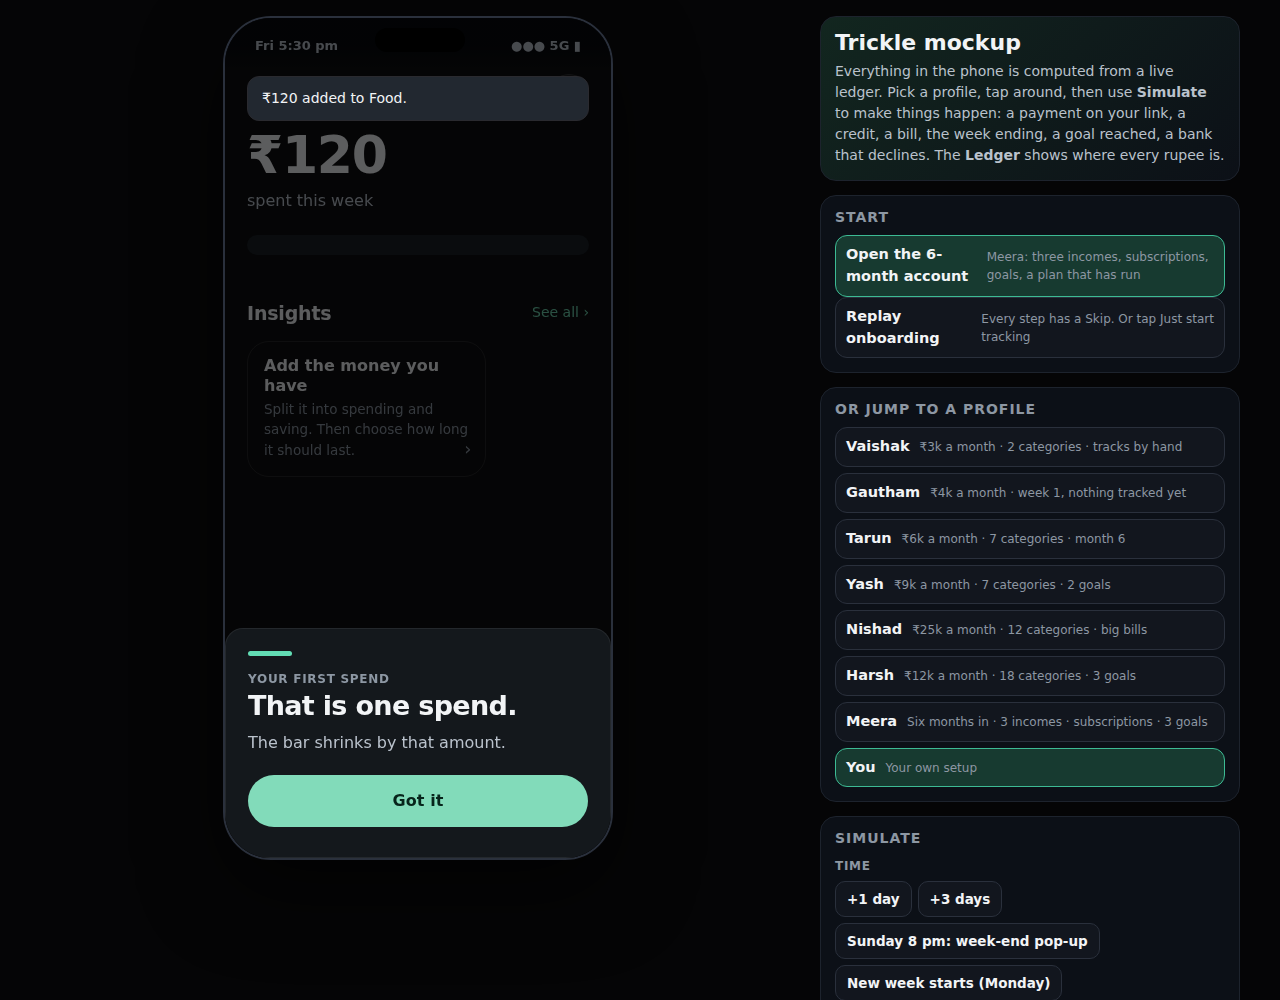
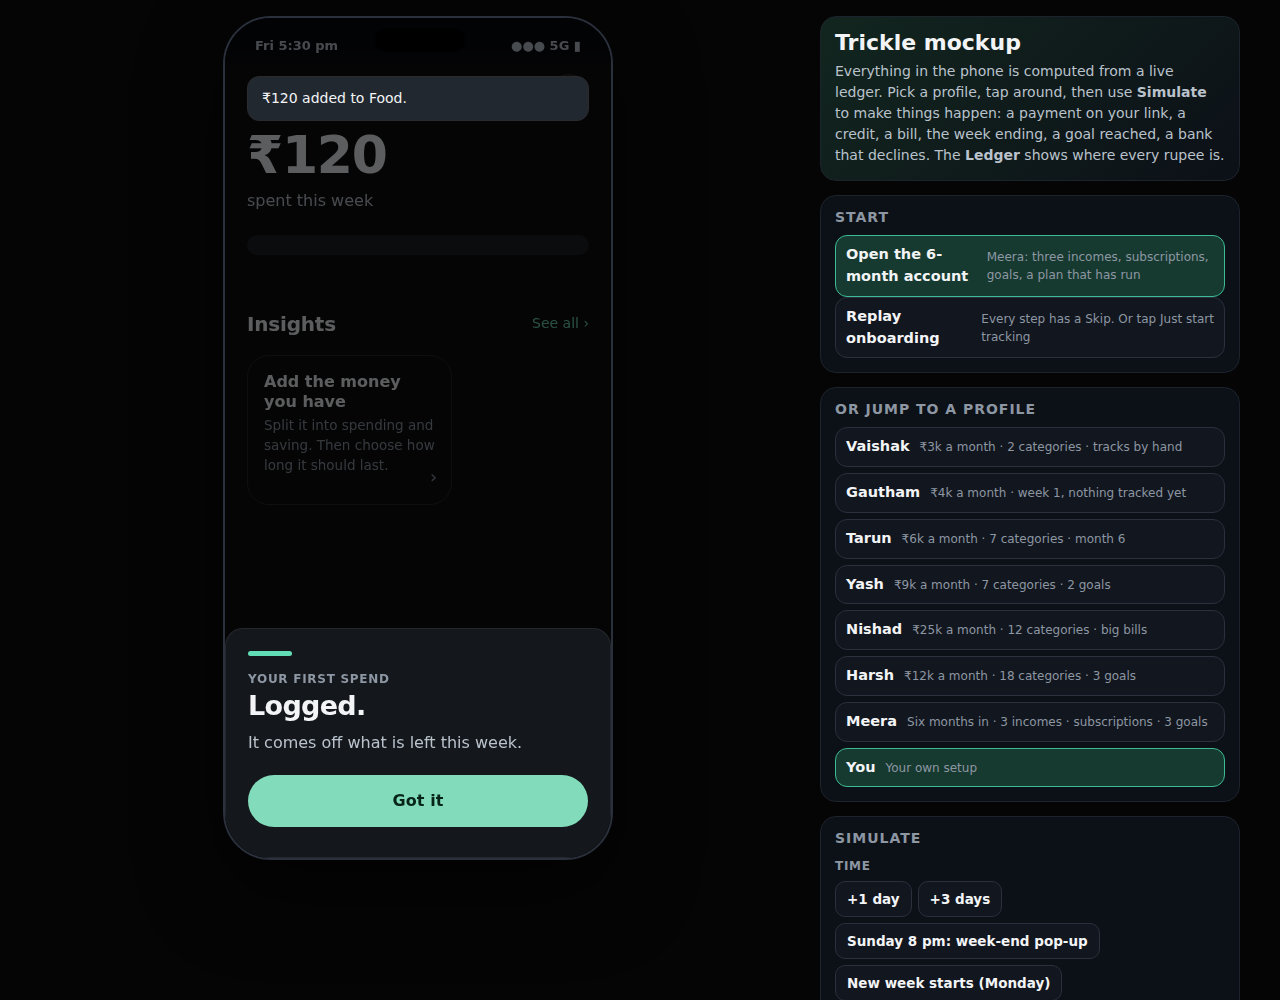
v20.1: weeks stepper or calendar, numbered plan blocks with one result, more spacing, plain tips
Claude-Session: https://claude.ai/code/session_018X24G78A47pCQxY7X53pHo

Changed region(s): [[0.1875, 0.31, 0.3438, 0.465], [0.1875, 0.682, 0.4062, 0.744], [0.4062, 0.31, 0.4688, 0.341]]

diff --git a/archive/session-workfiles/mockup20/mockup20.html b/archive/session-workfiles/mockup20/mockup20.html
@@ -394,6 +394,21 @@ input[type=range].split18::-moz-range-thumb{width:22px;height:28px;border:0;bord
 /* information: open tile, outline only, picture first */
 .in20{position:relative;flex:0 0 70%;scroll-snap-align:start;background:none;border:1.5px solid rgba(255,255,255,.1);border-radius:22px;padding:14px 16px 16px;color:var(--ink);font:inherit;text-align:left;display:flex;flex-direction:column;gap:3px;cursor:pointer}
 .in20 .mn{display:block;margin-bottom:10px}.in20 b{font-size:16px;font-weight:700;line-height:1.25;padding-right:14px}.in20 .sb{font-size:13.5px;color:var(--ink3)}.in20 .cv{position:absolute;right:14px;bottom:14px;font-style:normal;color:var(--ink3);font-size:18px}
+/* v20.1: blocks, spacing, hierarchy */
+.blk20{margin-top:16px;background:#1C1E22;border:1px solid rgba(255,255,255,.06);border-radius:22px;padding:16px 16px 18px}
+.blk20 .lab20{display:flex;align-items:center;gap:10px;margin-bottom:12px;font-size:16px}
+.n20{width:24px;height:24px;border-radius:50%;background:rgba(255,255,255,.1);color:var(--ink);font-size:13px;font-weight:700;display:flex;align-items:center;justify-content:center;flex:none}
+.blk20 input[type=range].split18{margin:12px 0 14px}
+.stp20{display:flex;align-items:center;gap:12px;margin:4px 0 14px}.stp20>div{flex:1;text-align:center}.stp20 b{display:block;font-size:26px;font-weight:700;letter-spacing:-.02em}.stp20 small{font-size:13px;color:var(--ink3)}
+.stp20 button{width:48px;height:48px;border-radius:50%;border:1px solid rgba(255,255,255,.14);background:#2A2D33;color:var(--ink);font:inherit;font-size:26px;line-height:1;cursor:pointer;display:flex;align-items:center;justify-content:center}.stp20 button:disabled{opacity:.35;cursor:default}
+.wk20 i.now{background:var(--spend)}
+.res20{margin-top:16px;border-radius:22px;padding:18px;background:color-mix(in srgb,var(--spend) 14%,#1C1E22);border:1px solid color-mix(in srgb,var(--spend) 38%,transparent)}
+/* Home: more room and clearer roles */
+.sec20{margin:40px 0 14px}.sec20>span{font-size:20px}
+#phone .hero17.h20{padding:20px 20px 20px}
+.in20{flex:0 0 60%;min-height:150px;padding:16px}
+.sg20{flex:0 0 86%;padding:18px}.sg20 .ic20{width:40px;height:40px}.sg20 .ic20 i{width:14px;height:14px}.sg20 b{font-size:20px}
+.dots17{margin-top:12px}
 </style></head><body>
 <div class="app"><div class="stage"><div id="frame"><div id="phone"><div class="notch"></div><div class="status"><span id="clk"></span><span>●●● 5G ▮</span></div><div id="glow"></div><div id="view"></div><div id="tabbar"></div><div id="layer"></div></div></div></div>
 <aside class="panel" id="panel"></aside></div>
@@ -3042,6 +3057,34 @@ scanConfirm=function(F){const d=F.d,amt=amtOf(d.kp),pl=planned(),W=Math.max(1,fl
   ${warn?`<div class="note20" style="text-align:left"><i style="background:${ST20.fast.c}"></i>${esc(warn)}</div>`:''}</div>
   <div class="mfoot"><div class="col" style="gap:8px"><button class="btn" data-a="pclose">Done</button>${d.scan?`<button class="btn q" data-a="scanremove">Didn't pay? Remove</button>`:''}</div></div>`}
  return _p(F)}}
+
+/* ===== v20.1 (10 Oct, Tarun): how long = weeks you add with + (or a calendar), not a dropdown. Plan screen in numbered blocks with one result ===== */
+const sun20=()=>wk0()+6*DAY;
+const wkCount20=end=>Math.max(1,Math.round((snapEnd(end)-sun20())/(7*DAY))+1);
+function setWeeks20(d,k){k=Math.max(1,Math.min(52,k));d.end=sun20()+(k-1)*7*DAY;d.dur='w';d.cal=false;const e=new Date(d.end),n=new Date(day0());d.cm=(e.getFullYear()-n.getFullYear())*12+e.getMonth()-n.getMonth()}
+H.incwk=a=>{const d=UI.flow.d,k=wkCount20(planNums18(d).end);setWeeks20(d,k+(+a[0]))};
+H.inccal20=()=>{const d=UI.flow.d;d.cal=!d.cal};
+function res20(n){return `<div class="sm">${money(n.sp)} ÷ ${n.days} days</div><div class="row" style="align-items:baseline;gap:8px;margin-top:4px"><span class="hero" style="font-size:46px;line-height:1">${money(n.wk)}</span><span style="font-size:17px;color:var(--ink2)">every week</span></div>${n.left<7?`<div class="sm" style="margin-top:6px">This week ${money(n.share)}, for the ${n.left} day${n.left>1?'s':''} left</div>`:''}`}
+function strip20(n){const w=weeks20(n);return `<div class="wk20">${w.map((b,i)=>`<i style="flex:${b.d}" class="${i===0?'now':''}"></i>`).join('')}</div><div class="row sp sm" style="margin-top:7px"><span>Today</span><span>Sun ${shortD(n.end)}</span></div>`}
+{const _inc=FLOWS.inc;FLOWS.inc=F=>{if(F.step===0)return _inc(F);
+ const d=F.d;if(!d.end)setWeeks20(d,5);const n=planNums18(d),k=wkCount20(n.end);
+ return `<div class="mbody"><button class="back" data-a="incback">‹ Back</button><div class="steps"><i class="on"></i><i class="on"></i></div>
+ <div class="title" style="margin-top:14px">Plan your ${money(n.a)}</div>
+ <div class="blk20"><div class="lab20"><span class="n20">1</span>Keep some aside?</div>
+  <input type="range" class="split18" min="0" max="100" step="1" value="${n.pct}" data-i="incpct20" style="--p:${n.pct}%" aria-label="How much to keep aside">
+  <div class="row sp"><button class="tapamt18" data-a="incedit|sav"><span class="k20"><i style="background:${SAVE}"></i>Keep aside</span><b id="inc-sav">${money(n.sav)}</b></button><button class="tapamt18 r" data-a="incedit|sp"><span class="k20"><i style="background:${SPEND}"></i>To spend</span><b id="inc-sp">${money(n.sp)}</b></button></div></div>
+ <div class="blk20"><div class="lab20"><span class="n20">2</span><span id="inc-q">How long should ${money(n.sp)} last?</span></div>
+  ${d.cal?`<div class="sm" style="margin-bottom:8px">Until Sunday ${fmtDate(n.end)}</div>${calHtml(d,n.t0,n.end)}`:`<div class="stp20"><button data-a="incwk|-1" aria-label="One week less" ${k<=1?'disabled':''}>−</button><div><b>${k} week${k>1?'s':''}</b><small>until Sun ${shortD(n.end)}</small></div><button data-a="incwk|1" aria-label="One more week">+</button></div>${strip20(n)}`}
+  <button class="lnk" style="margin-top:12px;font-size:14px" data-a="inccal20">${d.cal?'Count in weeks instead':'Pick a date on a calendar'}</button></div>
+ <div class="res20" id="eq20">${res20(n)}</div><div style="height:150px"></div></div>
+ <div class="mfoot"><div class="col" style="gap:8px"><button class="btn" data-a="incfinish">${planned()?'Update my week':'Start my week'}</button><button class="btn q" data-a="incdone">Just add the money</button></div></div>`}}
+HI.incpct20=(a,el)=>{const d=UI.flow.d;d.pct=+el.value;d.savX=null;const n=planNums18(d);el.style.setProperty('--p',n.pct+'%');$('#inc-sav').textContent=money(n.sav);$('#inc-sp').textContent=money(n.sp);$('#inc-q').textContent=`How long should ${money(n.sp)} last?`;$('#eq20').innerHTML=res20(n);return false};
+{const _n=H.incnext;H.incnext=a=>{_n(a);setWeeks20(UI.flow.d,5)}}
+
+/* plain-word tips (testers: "why are you riddling people") */
+TIPDEF.income={cap:'Money added',t:'Some kept aside. The rest is to spend.',b:()=>`You can spend ${money(S.W)} each week.`,c:ACC.b};
+TIPDEF.plan={cap:'Your week',t:'Your week is set.',b:()=>`${money(S.W)} to spend each week. Every spend comes out of it.`,c:ACC.g};
+TIPDEF.paid={cap:'Your first spend',t:'Logged.',b:'It comes off what is left this week.',c:ACC.g};
 
 /* ===== control panel ===== */
 function loadProfile(k){S=newState(k);S.moneyIn=[{id:'m0',t:new Date(2026,9,1,9,0).getTime(),label:'Allowance',amt:S.p.income,note:''}];if(S.p.six)seedSix();else if(S.p.W>0){S.planSet=true;S.cats.forEach(c=>c.full=c.amt);S.bufFull=S.bufAmt;S.firstDay=new Date(S.now.getTime()-S.p.weeks*7*DAY)}resetUI();window._celeLock=false;render();fitPhone()}

diff --git a/archive/session-workfiles/mockup20/ui20.js b/archive/session-workfiles/mockup20/ui20.js
@@ -93,3 +93,31 @@ scanConfirm=function(F){const d=F.d,amt=amtOf(d.kp),pl=planned(),W=Math.max(1,fl
   ${warn?`<div class="note20" style="text-align:left"><i style="background:${ST20.fast.c}"></i>${esc(warn)}</div>`:''}</div>
   <div class="mfoot"><div class="col" style="gap:8px"><button class="btn" data-a="pclose">Done</button>${d.scan?`<button class="btn q" data-a="scanremove">Didn't pay? Remove</button>`:''}</div></div>`}
  return _p(F)}}
+
+/* ===== v20.1 (10 Oct, Tarun): how long = weeks you add with + (or a calendar), not a dropdown. Plan screen in numbered blocks with one result ===== */
+const sun20=()=>wk0()+6*DAY;
+const wkCount20=end=>Math.max(1,Math.round((snapEnd(end)-sun20())/(7*DAY))+1);
+function setWeeks20(d,k){k=Math.max(1,Math.min(52,k));d.end=sun20()+(k-1)*7*DAY;d.dur='w';d.cal=false;const e=new Date(d.end),n=new Date(day0());d.cm=(e.getFullYear()-n.getFullYear())*12+e.getMonth()-n.getMonth()}
+H.incwk=a=>{const d=UI.flow.d,k=wkCount20(planNums18(d).end);setWeeks20(d,k+(+a[0]))};
+H.inccal20=()=>{const d=UI.flow.d;d.cal=!d.cal};
+function res20(n){return `<div class="sm">${money(n.sp)} ÷ ${n.days} days</div><div class="row" style="align-items:baseline;gap:8px;margin-top:4px"><span class="hero" style="font-size:46px;line-height:1">${money(n.wk)}</span><span style="font-size:17px;color:var(--ink2)">every week</span></div>${n.left<7?`<div class="sm" style="margin-top:6px">This week ${money(n.share)}, for the ${n.left} day${n.left>1?'s':''} left</div>`:''}`}
+function strip20(n){const w=weeks20(n);return `<div class="wk20">${w.map((b,i)=>`<i style="flex:${b.d}" class="${i===0?'now':''}"></i>`).join('')}</div><div class="row sp sm" style="margin-top:7px"><span>Today</span><span>Sun ${shortD(n.end)}</span></div>`}
+{const _inc=FLOWS.inc;FLOWS.inc=F=>{if(F.step===0)return _inc(F);
+ const d=F.d;if(!d.end)setWeeks20(d,5);const n=planNums18(d),k=wkCount20(n.end);
+ return `<div class="mbody"><button class="back" data-a="incback">‹ Back</button><div class="steps"><i class="on"></i><i class="on"></i></div>
+ <div class="title" style="margin-top:14px">Plan your ${money(n.a)}</div>
+ <div class="blk20"><div class="lab20"><span class="n20">1</span>Keep some aside?</div>
+  <input type="range" class="split18" min="0" max="100" step="1" value="${n.pct}" data-i="incpct20" style="--p:${n.pct}%" aria-label="How much to keep aside">
+  <div class="row sp"><button class="tapamt18" data-a="incedit|sav"><span class="k20"><i style="background:${SAVE}"></i>Keep aside</span><b id="inc-sav">${money(n.sav)}</b></button><button class="tapamt18 r" data-a="incedit|sp"><span class="k20"><i style="background:${SPEND}"></i>To spend</span><b id="inc-sp">${money(n.sp)}</b></button></div></div>
+ <div class="blk20"><div class="lab20"><span class="n20">2</span><span id="inc-q">How long should ${money(n.sp)} last?</span></div>
+  ${d.cal?`<div class="sm" style="margin-bottom:8px">Until Sunday ${fmtDate(n.end)}</div>${calHtml(d,n.t0,n.end)}`:`<div class="stp20"><button data-a="incwk|-1" aria-label="One week less" ${k<=1?'disabled':''}>−</button><div><b>${k} week${k>1?'s':''}</b><small>until Sun ${shortD(n.end)}</small></div><button data-a="incwk|1" aria-label="One more week">+</button></div>${strip20(n)}`}
+  <button class="lnk" style="margin-top:12px;font-size:14px" data-a="inccal20">${d.cal?'Count in weeks instead':'Pick a date on a calendar'}</button></div>
+ <div class="res20" id="eq20">${res20(n)}</div><div style="height:150px"></div></div>
+ <div class="mfoot"><div class="col" style="gap:8px"><button class="btn" data-a="incfinish">${planned()?'Update my week':'Start my week'}</button><button class="btn q" data-a="incdone">Just add the money</button></div></div>`}}
+HI.incpct20=(a,el)=>{const d=UI.flow.d;d.pct=+el.value;d.savX=null;const n=planNums18(d);el.style.setProperty('--p',n.pct+'%');$('#inc-sav').textContent=money(n.sav);$('#inc-sp').textContent=money(n.sp);$('#inc-q').textContent=`How long should ${money(n.sp)} last?`;$('#eq20').innerHTML=res20(n);return false};
+{const _n=H.incnext;H.incnext=a=>{_n(a);setWeeks20(UI.flow.d,5)}}
+
+/* plain-word tips (testers: "why are you riddling people") */
+TIPDEF.income={cap:'Money added',t:'Some kept aside. The rest is to spend.',b:()=>`You can spend ${money(S.W)} each week.`,c:ACC.b};
+TIPDEF.plan={cap:'Your week',t:'Your week is set.',b:()=>`${money(S.W)} to spend each week. Every spend comes out of it.`,c:ACC.g};
+TIPDEF.paid={cap:'Your first spend',t:'Logged.',b:'It comes off what is left this week.',c:ACC.g};

diff --git a/archive/session-workfiles/mockup20/shell.html b/archive/session-workfiles/mockup20/shell.html
@@ -394,6 +394,21 @@ input[type=range].split18::-moz-range-thumb{width:22px;height:28px;border:0;bord
 /* information: open tile, outline only, picture first */
 .in20{position:relative;flex:0 0 70%;scroll-snap-align:start;background:none;border:1.5px solid rgba(255,255,255,.1);border-radius:22px;padding:14px 16px 16px;color:var(--ink);font:inherit;text-align:left;display:flex;flex-direction:column;gap:3px;cursor:pointer}
 .in20 .mn{display:block;margin-bottom:10px}.in20 b{font-size:16px;font-weight:700;line-height:1.25;padding-right:14px}.in20 .sb{font-size:13.5px;color:var(--ink3)}.in20 .cv{position:absolute;right:14px;bottom:14px;font-style:normal;color:var(--ink3);font-size:18px}
+/* v20.1: blocks, spacing, hierarchy */
+.blk20{margin-top:16px;background:#1C1E22;border:1px solid rgba(255,255,255,.06);border-radius:22px;padding:16px 16px 18px}
+.blk20 .lab20{display:flex;align-items:center;gap:10px;margin-bottom:12px;font-size:16px}
+.n20{width:24px;height:24px;border-radius:50%;background:rgba(255,255,255,.1);color:var(--ink);font-size:13px;font-weight:700;display:flex;align-items:center;justify-content:center;flex:none}
+.blk20 input[type=range].split18{margin:12px 0 14px}
+.stp20{display:flex;align-items:center;gap:12px;margin:4px 0 14px}.stp20>div{flex:1;text-align:center}.stp20 b{display:block;font-size:26px;font-weight:700;letter-spacing:-.02em}.stp20 small{font-size:13px;color:var(--ink3)}
+.stp20 button{width:48px;height:48px;border-radius:50%;border:1px solid rgba(255,255,255,.14);background:#2A2D33;color:var(--ink);font:inherit;font-size:26px;line-height:1;cursor:pointer;display:flex;align-items:center;justify-content:center}.stp20 button:disabled{opacity:.35;cursor:default}
+.wk20 i.now{background:var(--spend)}
+.res20{margin-top:16px;border-radius:22px;padding:18px;background:color-mix(in srgb,var(--spend) 14%,#1C1E22);border:1px solid color-mix(in srgb,var(--spend) 38%,transparent)}
+/* Home: more room and clearer roles */
+.sec20{margin:40px 0 14px}.sec20>span{font-size:20px}
+#phone .hero17.h20{padding:20px 20px 20px}
+.in20{flex:0 0 60%;min-height:150px;padding:16px}
+.sg20{flex:0 0 86%;padding:18px}.sg20 .ic20{width:40px;height:40px}.sg20 .ic20 i{width:14px;height:14px}.sg20 b{font-size:20px}
+.dots17{margin-top:12px}
 </style></head><body>
 <div class="app"><div class="stage"><div id="frame"><div id="phone"><div class="notch"></div><div class="status"><span id="clk"></span><span>●●● 5G ▮</span></div><div id="glow"></div><div id="view"></div><div id="tabbar"></div><div id="layer"></div></div></div></div>
 <aside class="panel" id="panel"></aside></div>

diff --git a/docs/claude/v14_decisions.md b/docs/claude/v14_decisions.md
@@ -797,3 +797,10 @@ Research (web search, 10 Oct): Monzo's community thread on a budgeting widget (l
 | V20-10 | Coloured text only on things you can tap; data colours fill shapes only (goal %, Save/Spend labels, the purple heads-up banner on pay confirm are now plain) | Tester: "why is this purple, I thought it was a button" (R4) | Same question | PROPOSED |
 | V20-11 | "Unsorted" and "Needs a category" read "Other"; "Recommended: set a limit" in Spending rows reads "Set a limit" | Tester: "what is unsorted, it just has to be other" | none | CONFIRMED (Tarun's notes) |
 | V20-12 | The help sheet ("?") is a picture: ₹ left ÷ days = ₹ a day, the bar, and the three states | "Too much text to read" | Task 3 | PROPOSED |
+
+### V20-13…V20-15 (10 Oct, Tarun, after seeing v20)
+| ID | Domain | Evidence | Validation gate | Status |
+|---|---|---|---|---|
+| V20-13 | How long the money lasts is set in weeks with − and + (each + adds a week to the strip), or on a calendar ("Pick a date on a calendar"); the dropdown is gone. Default 5 weeks | Tarun: "this can just be a calendar or pressing a plus to add a week" | Test task 1 | CONFIRMED (Tarun); default 5 weeks is mine |
+| V20-14 | Plan screen in two numbered blocks (1 Keep some aside? 2 How long?) and one result card ("₹1,120 every week", with "₹7,200 ÷ 45 days" above it); the three equal tiles are gone | Tarun: "more distinction, more spacing, more hierarchy, more visually interesting" | Task 1 | PROPOSED |
+| V20-15 | Home: more space between sections (40 px), larger section titles, insight tiles narrower, suggestion cards wider with a bigger icon; tips rewritten in plain words ("Some kept aside. The rest is to spend.") | Same request; "riddling" from the test | Tarun review | PROPOSED |

diff --git a/HANDOVER.md b/HANDOVER.md
@@ -1,5 +1,7 @@
 # Trickle — handover
 
+## v20.1 (10 Oct): weeks stepper (+/−) or calendar instead of the dropdown; plan screen in numbered blocks with one result card; more spacing on Home; plain tips (V20-13…15). Known issue, not fixed (model, pre-existing): right after adding money mid-week, Home can show a tiny amount left (e.g. ₹5 of ₹1,092), because this week only gets its share for the days left minus what was already spent. Needs a decision from Tarun.
+
 ## v20 (10 Oct): answers the first recorded 3-person test (of v19). Read `docs/claude/v20_user_test_report.md` first: findings, 7 root causes, what changed, and a 5-task test script with pass rules. Published at https://claude.ai/artifact/4T34qefkun2MSadzJm5nmX. Build in `archive/session-workfiles/mockup20/` (`ui20.js` + last CSS block in `shell.html`); decisions V20-1…12; screenshots in `docs/claude/v20_screens/`. Not redesigned: home-screen widget, goals, settings, insight detail screens. Next: run the 5-task test on v20 with 5 people, one row per person.
 
 ## v19.5 (10 Oct): centre + removed, gear top right and two snapped buttons back (V19-17). Hero v19.4 and no category icons kept. The + sheet code (SHEETS.plus19, H.plus19) is still in ui19.js but unused.
